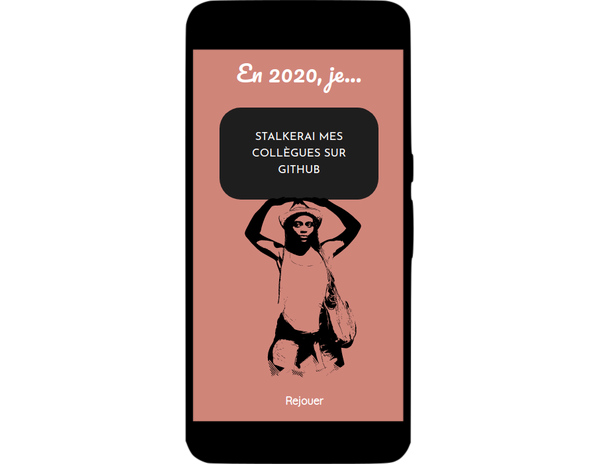
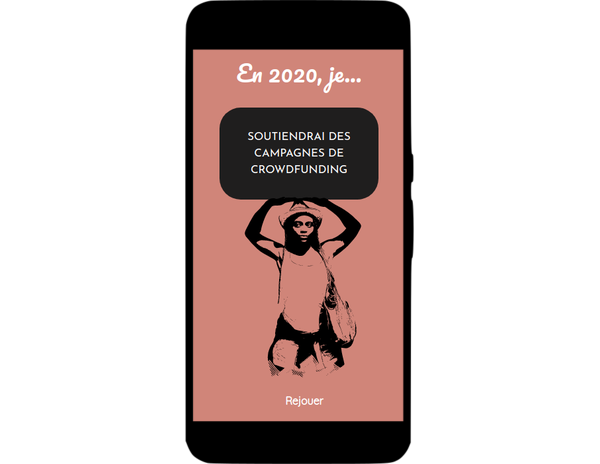
started contact form

Changed region(s): [[0.39, 0.2716, 0.6, 0.3922]]

diff --git a/src/data/projects.js b/src/data/projects.js
@@ -1,9 +1,11 @@
+// 1st project pictures imports
 import gratitudePicture1 from 'src/styles/assets/images/screenshots/gratitude/device/gratitude_1.png';
 import gratitudePicture2 from 'src/styles/assets/images/screenshots/gratitude/device/gratitude_2.png';
 import gratitudePicture3 from 'src/styles/assets/images/screenshots/gratitude/device/gratitude_3.png';
 import gratitudePicture4 from 'src/styles/assets/images/screenshots/gratitude/device/gratitude_4.png';
 import gratitudePicture5 from 'src/styles/assets/images/screenshots/gratitude/device/gratitude_5.png';
 
+// 2nd project pictures imports
 import serialKillerPicture1 from 'src/styles/assets/images/screenshots/serialkiller/device/serialkiller_1.png';
 import serialKillerPicture2 from 'src/styles/assets/images/screenshots/serialkiller/device/serialkiller_2.png';
 import serialKillerPicture3 from 'src/styles/assets/images/screenshots/serialkiller/device/serialkiller_3.png';
@@ -16,18 +18,22 @@ import serialKillerPicture9 from 'src/styles/assets/images/screenshots/serialkil
 import serialKillerPicture10 from 'src/styles/assets/images/screenshots/serialkiller/device/serialkiller_10.png';
 import serialKillerPicture11 from 'src/styles/assets/images/screenshots/serialkiller/device/serialkiller_11.png';
 
+// 3rd project pictures imports
 import mesProchainesVacancesPicture1 from 'src/styles/assets/images/screenshots/mesprochainesvacances/device/mesprochainesvacances_1.png';
 import mesProchainesVacancesPicture2 from 'src/styles/assets/images/screenshots/mesprochainesvacances/device/mesprochainesvacances_2.png';
 import mesProchainesVacancesPicture3 from 'src/styles/assets/images/screenshots/mesprochainesvacances/device/mesprochainesvacances_3.png';
 
+// 4th project pictures imports
 import monAnnee2020Picture1 from 'src/styles/assets/images/screenshots/monannee2020/device/monannee2020_1.png';
 import monAnnee2020Picture2 from 'src/styles/assets/images/screenshots/monannee2020/device/monannee2020_2.png';
 import monAnnee2020Picture3 from 'src/styles/assets/images/screenshots/monannee2020/device/monannee2020_3.png';
 
+// 5th project pictures imports
 import moteurProduit1 from 'src/styles/assets/images/screenshots/moteurproduit/device/moteurproduit_1.png';
 import moteurProduit2 from 'src/styles/assets/images/screenshots/moteurproduit/device/moteurproduit_2.png';
 import moteurProduit3 from 'src/styles/assets/images/screenshots/moteurproduit/device/moteurproduit_3.png';
 
+// 6th project pictures imports
 import assistantImpression1 from 'src/styles/assets/images/screenshots/assistantimpression/device/assistantimpression_1.png';
 import assistantImpression2 from 'src/styles/assets/images/screenshots/assistantimpression/device/assistantimpression_2.png';
 import assistantImpression3 from 'src/styles/assets/images/screenshots/assistantimpression/device/assistantimpression_3.png';
@@ -191,7 +197,7 @@ export default [
       {
         id: 2,
         smallPictureContent: monAnnee2020Picture2,
-        smallPictureAlt: 'Affichage d\'une prédiction pour 2020 : "En 2020, je... partagerai mon code"',
+        smallPictureAlt: 'Affichage d\'une prédiction pour 2020 : "En 2020, je... soutiendrai des campagnes de crowdfunding"',
       },
       {
         id: 3,
@@ -233,7 +239,7 @@ export default [
     technology: [
       'JavaScript Vanilla',
     ],
-    description: 'Cet outil génère une suite de chiffres pairs ou impairs. Pratique pour imprimer des documents volumineux en recto-verso.',
+    description: 'Cet outil génère une suite de chiffres pairs ou impairs. Pratique pour imprimer des documents volumineux au format recto-verso.',
     website: 'http://test.com',
     github: 'https://github.com/Abibibi/printing-assistant',
     pictures: [

diff --git a/src/components/Footer/index.js b/src/components/Footer/index.js
@@ -9,15 +9,6 @@ const Footer = () => (
       <div className="footer-container-links">
         <p>
           <a
-            href="mailto:abeba.ngwe@gmail.com?Subject=Prise de contact"
-            target="_blank"
-            rel="noopener noreferrer"
-          >
-            E-mail
-          </a>
-        </p>
-        <p>
-          <a
             href="https://github.com/Abibibi"
             target="_blank"
             rel="noopener noreferrer"

diff --git a/src/components/App/index.js b/src/components/App/index.js
@@ -6,6 +6,7 @@ import './app.scss';
 import Navbar from 'src/components/Navbar';
 import Header from 'src/components/Header';
 import Projects from 'src/components/Projects';
+import Form from 'src/components/Form';
 import Footer from 'src/components/Footer';
 
 // == Composant
@@ -14,6 +15,7 @@ const App = () => (
     <Navbar />
     <Header />
     <Projects />
+    <Form />
     <Footer />
   </div>
 );

diff --git a/src/components/Footer/footer.scss b/src/components/Footer/footer.scss
@@ -1,7 +1,8 @@
 .footer {
-  background-color: #000000;
+  background-color: #1a1a1a;
   color: #ffffff;
   height: 25vh;
+  border-top: 1.4px solid gray;
 
   &-container {
     display: flex;
@@ -51,7 +52,7 @@
     align-items: center;
 
     &-container {
-      width: 40%;
+      width: 23%;
       height: 100%;
       justify-content: space-between;
       flex-direction: column;

diff --git a/src/components/Projects/index.js b/src/components/Projects/index.js
@@ -7,7 +7,7 @@ import Project from './Project';
 
 const Projects = () => (
   <div className="projects">
-    <div className="projects-title"><h1>Projets</h1></div>
+    <div className="projects-title"><h2>Projets</h2></div>
     <div className="projects-all">
       {projects.map(({
         id,

diff --git a/src/components/Navbar/index.js b/src/components/Navbar/index.js
@@ -26,7 +26,7 @@ const Navbar = () => {
     }
     else if (event.target.textContent === 'Contact') {
       window.scrollTo({
-        top: document.querySelector('footer').offsetTop,
+        top: document.querySelector('.form').offsetTop,
         behavior: 'smooth',
       });
     }

diff --git a/src/components/Form/index.js b/src/components/Form/index.js
@@ -4,5 +4,13 @@ import './form.scss';
 
 
 const Form = () => {
-
+  return (
+    <div className="form">
+      <div className="projects-title">
+        <h2>Contact</h2>
+      </div>
+    </div>
+  );
 };
+
+export default Form;

diff --git a/src/components/Form/form.scss b/src/components/Form/form.scss
@@ -1,0 +1,3 @@
+.form {
+  background-color: #000000;
+}
